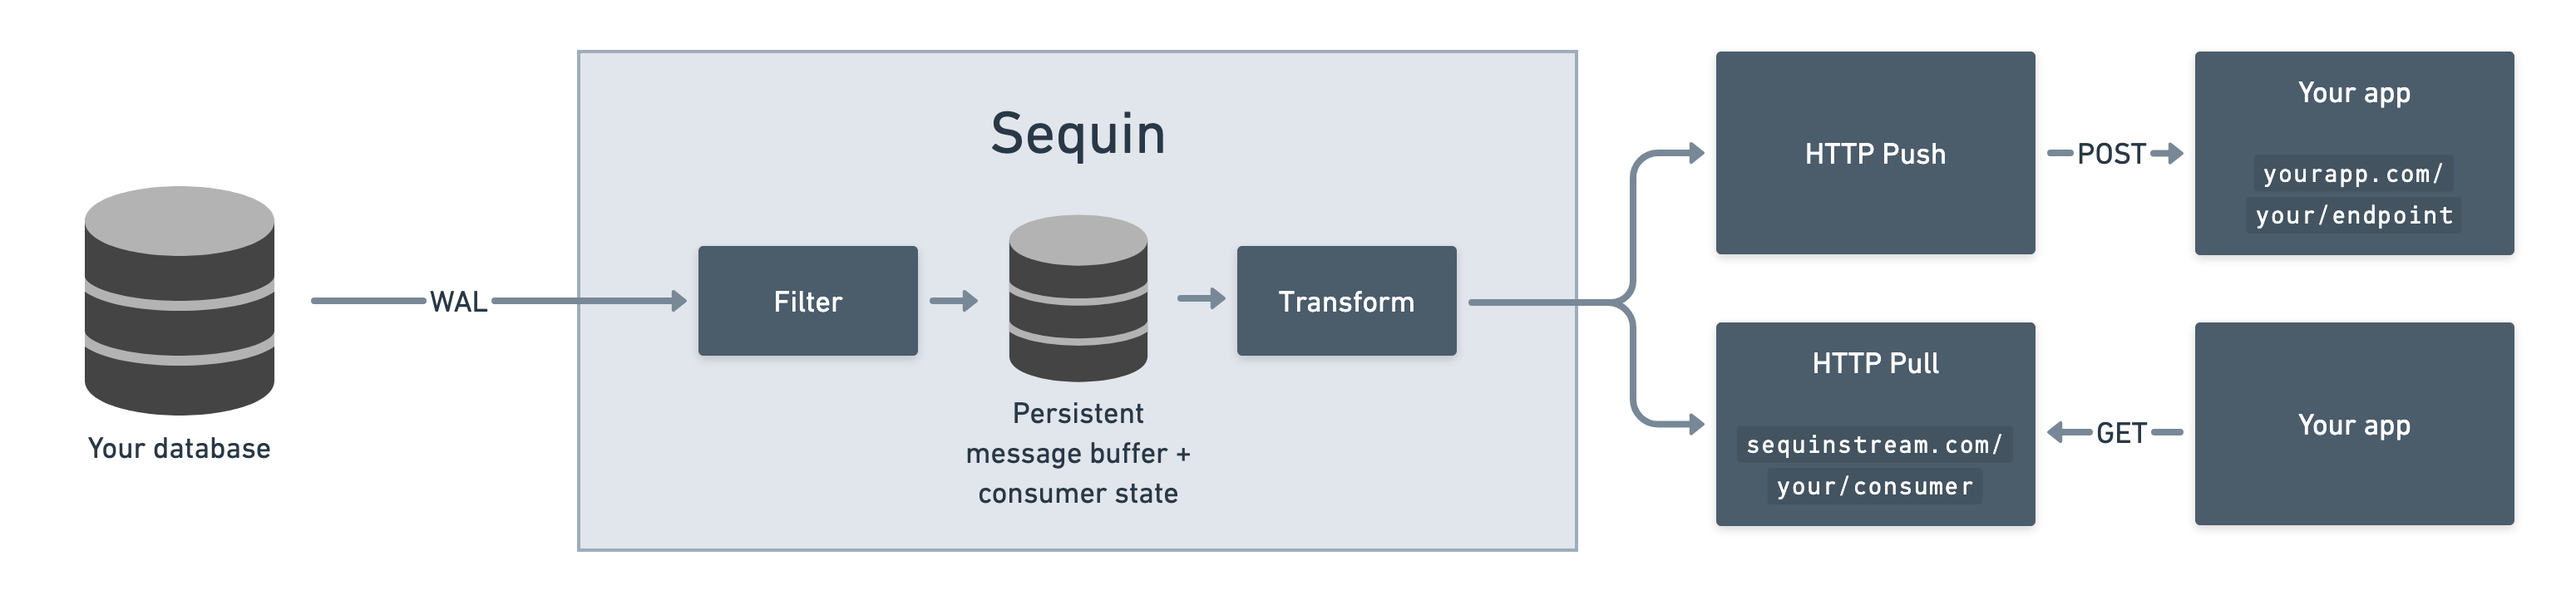
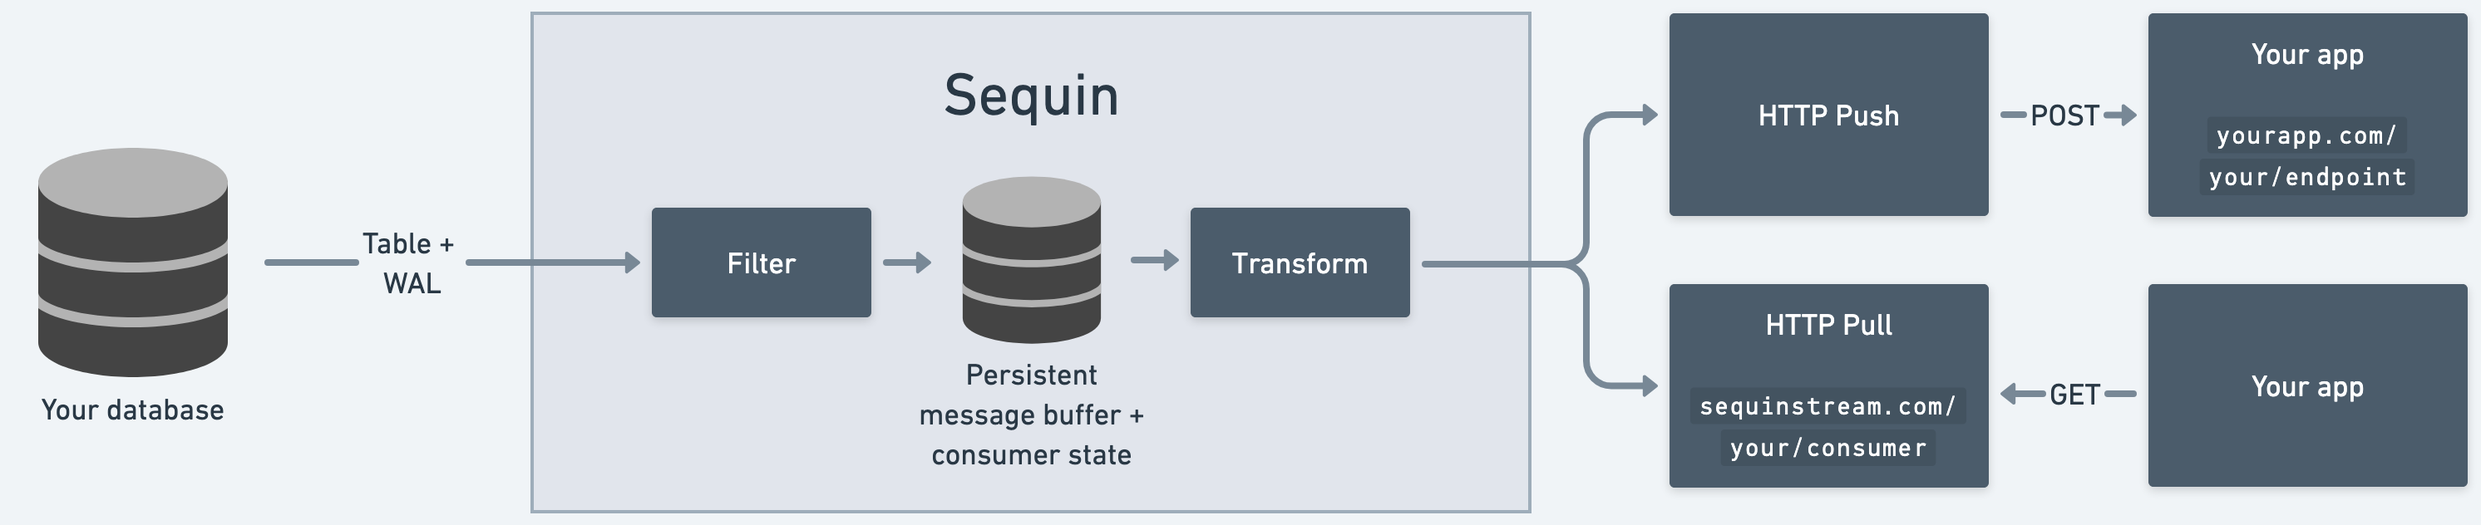
Update README

Changed region(s): [[0.0, 0.0, 0.9973, 0.9921], [0.374, 0.1203, 0.4675, 0.2706], [0.6857, 0.5111, 0.7792, 0.5411]]

diff --git a/README.md b/README.md
@@ -18,32 +18,23 @@
 
 ## What is Sequin?
 
-Sequin adds streaming capabilities to Postgres. For maximum compatibility and a rich feature-set, Sequin is not an extension. It's a Docker container you connect to your Postgres database.
+Sequin streams data out of your Postgres database. You can use it to **replicate data** in your existing tables to other apps, databases, caches, materialized views, or frontend clients. Or you can use it to build **event processing workflows**, such as triggering side effects when data in Postgres changes.
 
-Sequin adds a stateful consumer layer to Postgres. Sequin's consumers let you stream rows and changes with exactly-once processing. Sequin handles turning your Postgres tables into streams: detecting changes, delivering messages in real-time, retries, and more. It's like having SQS or Kafka fused to your Postgres database.
+Sequin itself is built on Postgres. It uses the Write Ahead Log (WAL) to detect changes and internal tables to store consumer state. Without Sequin, you'd need to cobble together tools like Debezium and Kafka.
 
-At the moment, Sequin offers two HTTP interfaces for consuming messages. You can pull changes (SQS-inspired interface), or push changes via HTTP (webhooks).
-
-Sequin is built for **change data capture** (CDC) use cases, like replicating data, feeding search indexes, creating audit logs, triggering side effects, fan-out to microservices, and more.
-
-Sequin also **eliminates the need for Kafka** in many situations. If your data already exists in Postgres, why copy data into Kafka when you can just stream it directly from your tables? Unlike Kafka, with Sequin your Postgres table is the storage layer and remains the source of truth.
-
-To operate, Sequin has two major components:
-
-1. An extraction pipeline: Sequin connects to your Postgres tables and uses a combination of reading from your table and reading from your WAL to turn your table into a stream.
-2. A delivery pipeline: Sequin delivers messages to consumers via a HTTP pull interface or webhooks. It keeps consumer state in Sequin-managed Postgres tables.
+Sequin is a standalone Docker container that you can deploy in front of your Postgres database. Or, you can use [our hosted offering](https://sequinstream.com).
 
 Sequin is open source/MIT. We can't wait to see what you build.
 
 ## Killer features
 
-- **Never miss a message:** Sequin delivers messages from your database to consumers until they are acknowledged (i.e. exactly-once processing guarantees).
+- **Never miss a record or change:** Sequin ensures all database changes are delivered and processed exactly once by consumers.
 - **SQL-based routing:** Filter and route messages to consumers using SQL `where` conditions.
 - **Replays:** Rewind consumers to any row on your table. Or republish select messages that match a SQL query.
 - **Start anywhere:** Consumers can start processing records from any point in a table.
-- **Bring your database:** Sequin is not an extension. It works with any Postgres database version 12+.
+- **Bring your database:** Sequin is not an extension. It works with any Postgres database version 12\+.
 - **No PL/pgSQL:** Define business logic in the language of your choice and in your application.
-- **Transforms** (coming soon!): Transform message payloads by writing functions in Lua, JavaScript, or Go.
+- **Transforms** \(coming soon\!\): Transform message payloads by writing functions in Lua, JavaScript, or Go.
 
 ## Cloud
 
@@ -55,9 +46,13 @@ Sequin is open source/MIT. We can't wait to see what you build.
 
 Sequin keeps your data in your Postgres database. You can use your existing database in a new way without copying the data to a new system or mastering a new technology.
 
-Sequin connects to any Postgres database via both direct table reads (i.e. `select`) and the Write Ahead Log (WAL). Consumers can start processing rows at any point in the table. Sequin turns the table's rows and changes into a stream of messages. Sequin buffers messages to ensure they are delivered and allow for replays and rewinds. You can read those messages over an HTTP interface similar to SQS, or Sequin can push changes to you via webhooks.
+Sequin connects to any Postgres database via both direct table reads (i.e. `select`) and the WAL. Consumers can start processing rows at any point in the table. Sequin turns the table's rows into a stream of messages. You can read those messages over an HTTP interface similar to SQS, or Sequin can push changes to you via webhooks.
 
-Sequin is open source. You can run Sequin in its own Docker container or as a sidecar container in your existing deployment.
+As rows are inserted or updated, Sequin will redeliver them to consumers.
+
+With [WAL Pipelines](#wal-pipelines), you can capture discrete changes to your tables, including `OLD` values for updates and hard-deletes. Sequin will write changes to an event log table in your database, so you can stream these changes with Sequin.
+
+You can run Sequin in its own Docker container or as a sidecar container in your existing deployment.
 
 Sequin comes with a web console/UI for configuration:
 
@@ -65,7 +60,7 @@ Sequin comes with a web console/UI for configuration:
 2. Select the tables, actions, and SQL filters that publish messages to your consumers.
 3. Consume messages using HTTP pull and push interfaces. (You can use our SDKs.)
 
-In production, you can configure Sequin as code using Terraform.
+You can configure Sequin as code using TOML config files (coming soon).
 
 ## Benchmarks
 
@@ -75,119 +70,64 @@ Postgres Performance is highly dependent on machine resources. But to give you a
 
 ## Use cases
 
-**Trigger side-effects:** Never miss a change in your database for processing by other systems.
-![Queue email](https://github.com/sequinstream/sequin/blob/main/docs/images/readme/use_case_1.svg?)
-
-**Fan out:** Add queue capabilities to your database to broadcast events, distribute workloads, and decouple services.
-![Fan out order](https://github.com/sequinstream/sequin/blob/main/docs/images/readme/use_case_2.svg?)
-
 **Replication:** Sync data to other systems to update search indexes, invalidate caches, and generate denormalized views.
 ![Sync](https://github.com/sequinstream/sequin/blob/main/docs/images/readme/use_case_3.svg?)
 
-## Compare Sequin
+**Trigger side-effects:** Never miss a change in your database for processing by other systems.
+![Queue email](https://github.com/sequinstream/sequin/blob/main/docs/images/readme/use_case_1.svg?)
 
-### Quick compare
+**Fan out:** Broadcast events, distribute workloads, and decouple services.
+![Fan out order](https://github.com/sequinstream/sequin/blob/main/docs/images/readme/use_case_2.svg?)
 
-| Feature               | Sequin                   | [PG triggers](#pg-triggers) | [LISTEN / NOTIFY](#listen--notify) | [Supabase Webhooks](#supabase-webhooks) | [Amazon SQS](#amazon-sqs) | [PGMQ](#pgmq)   |
-| --------------------- | ------------------------ | --------------------------- | ---------------------------------- | --------------------------------------- | ------------------------- | --------------- |
-| Trigger guarantees    | Transactional            | Transactional               | Transactional                      | Transactional                           | N/A                       | Transactional   |
-| Processing guarantees | Exactly-once             | Exactly-once                | At-most-once                       | At-least-once                           | Exactly-once              | Exactly-once    |
-| Order guarantees      | FIFO, strict by PK       | FIFO                        | ❌ No                              | ❌ No                                   | FIFO option               | ❌ No           |
-| Replay                | ✅ Yes                   | ❌ No                       | ❌ No                              | ❌ No                                   | ❌ No                     | ✅ Yes          |
-| Filtering             | ✅ Yes                   | ✅ Yes                      | ✅ Yes                             | ✅ PG triggers                          | N/A                       | ❌ No           |
-| Transformation        | ✅ LUA                   | ❌ No                       | ❌ No                              | ❌ No                                   | ❌ No                     | ❌ No           |
-| Backfills             | ✅ Yes                   | ❌ No                       | ❌ No                              | ❌ No                                   | N/A                       | N/A             |
-| Interface             | HTTP pull<br />HTTP push | plpgsql                     | Postgres client                    | HTTP push                               | HTTP pull                 | SQL functions   |
-| Observability         | Sequin console           | PG logging\*                | PG logging\*                       | Supabase dashboard                      | AWS console               | PG logging\*    |
-| Performance           | WAL, minimal overhead    | Serial ops / row^           | Minimal overhead                   | Serial ops / row^                       | N/A                       | PG table limits |
+## WAL Pipelines
 
-<sub>\* **PG logging:** You can configure logging in your database, but nothing is built in. Generally hard to see the state of any given side-effect.</sub>
+Sequin streams rows from your Postgres tables. To capture and stream discrete changes to your tables – including `OLD` values for updates and hard-deletes – you can use **WAL Pipelines**. WAL Pipelines insert WAL records into an append-only event log table in your database. You can then stream these changes with Sequin.
 
-<sub>^ **Serial ops / row:** Postgres triggers (which power Supabase Webhooks) run serially within each transaction (and block) and can add significant overhead.</sub>
-
-### Details
-
-<details>
-
-<summary>Kafka v Sequin</summary>
-
-### Kafka
+## Sequin vs Kafka
 
 Apache Kafka is a distributed event streaming platform. Kafka is designed for very high throughput and horizontal scalability.
 
-You can use Sequin to turn a Postgres table into something that behaves like a Kafka topic. You can create new consumers that process messages in order, starting at any offset in the table you specify. Because all your data lives at rest in Postgres, the data model is easy to understand and work with.
+You can think of Sequin as a more ergonomic, Postgres-based alternative. With Sequin, you can turn a Postgres table into something that behaves like a Kafka topic. You can create new consumers that process messages in order, starting at any offset in the table you specify. Because all your data lives at rest in Postgres, the data model is easy to understand and work with.
 
-Sequin's consumer pattern is simpler than Kafka's. Kafka uses partitions and offsets for concurrency, whereas Sequin uses a message queue pattern similar to SQS. This means concurrency is flexible and you can scale workers up and down without making any configuration changes.
+Sequin's consumer pattern is much simpler than Kafka's. Kafka uses partitions and offsets for concurrent consumption, whereas Sequin uses a message queue pattern similar to SQS. This means concurrency is flexible and you can scale workers up and down without making any configuration changes.
+
+Consumers can also use SQL-based filtering to consume a subset of rows from a table. This is far more dynamic than Kafka's topic model, where consumer groups need to consume all data from a topic.
 
 While Kafka may be necessary for very high throughput use cases (logs or metrics, millions of messages per second), Postgres and Sequin are able to handle a lot of use cases with a lot less complexity (even modest Postgres instances can handle tens of thousands of messages per second).
 
-</details>
+## Sequin vs Debezium + Kafka
 
-<details>
+Debezium is a change data capture (CDC) tool for databases like Postgres. It requires an external messaging system like Kafka to operate.
 
-<summary>PG Triggers v Sequin</summary>
+Like Sequin, you can use Debezium + Kafka to replicate data or build event processing workflows.
 
-### PG Triggers
+Debezium is a complex system that requires a lot of setup and configuration.
+
+Sequin is simpler to setup and operate, yet is quickly becoming as comprehensive as Debezium. Sequin comes with a much more comprehensive UI for configuration and monitoring. And Sequin doesn't require another messaging system like Kafka to learn and operate. With [WAL Pipelines](#wal-pipelines) you can capture the same changes that Debezium does.
+
+## Sequin vs PG Triggers
 
 [PG Triggers](https://www.postgresql.org/docs/current/sql-createtrigger.html) provide exactly-once processing guarantees within the context of your database. For instance, you can ensure that when a record is inserted in one table, it is appended to another.
 
 Sequin extends this guarantee outside of your database with a simple HTTP interface. Notably, Sequin is much more efficient at processing changes - as the trigger is captured via the WAL while Postgres triggers execute per row, inside transactions.
 
-</details>
-
-<details>
-
-<summary>LISTEN / NOTIFY v Sequin</summary>
-
-### LISTEN / NOTIFY
+## Sequin vs LISTEN / NOTIFY
 
 [`NOTIFY`](https://www.postgresql.org/docs/current/sql-notify.html) delivers a message to any channel listening for changes. It's a simple pub/sub model with at-most once delivery guarantees. If a change happens and no channel is available to hear it - it's gone forever.
 
 Sequin adds a HTTP interface and persistent, durable messaging to provide exactly-once processing guarantees to the NOTIFY implementation. Paired with filtering, transforms, and observability - Sequin is easier to use and monitor.
 
-</details>
-
-<details>
-
-<summary>Supabase Webhooks v Sequin</summary>
-
-### Supabase Webhooks
-
-Supabase Webhooks use pg_net to allow you to trigger a HTTP POST or GET from a Postgres Trigger. If a webhook fails, the response is logged (for a period of time).
-
-Sequin adds retries and message persistence to provide exactly-once processing guarantees. Paired with more queue configuration options, Sequin acts as a sort of outbox stream for Supabase.
-
-</details>
-
-<details>
-
-<summary>Amazon SQS v Sequin</summary>
-
-### Amazon SQS
+## Amazon SQS
 
 Amazon Simple Queue Service (SQS) is a message queuing service. It offers exactly-once processing over an HTTP interface.
 
-Sequin's HTTP pull interface is a lot like SQS's HTTP pull interface. Except, Sequin isn't really a queue; it's better thought of as a stream. Because Sequin is streaming your Postgres tables, messages aren't deleted after they're processed.
+Sequin's HTTP pull interface is a lot like SQS's HTTP pull interface. Except, Sequin isn't really a queue; it's better thought of as a stream. Because Sequin is streaming your Postgres tables, messages aren't deleted after they're processed. This means consumers can rewind and replay records, or start anywhere in the table.
 
 So, Sequin is kind of like combining your Postgres table with SQS, like you might do with a system like Debezium.
 
-</details>
-
-<details>
-
-<summary>PGMQ v Sequin</summary>
-
-### PGMQ
-
-PGMQ is a Postgres extension that provides a durable message queue with a SQL interface that mimics SQS methods. It offers exactly-once processing like SQS, but runs entirely in Postgres.
-
-Unlike PGMQ, Sequin is a stream not a queue. PGMQ owns a table you publish messages to, and when you process the messages they are deleted. By contrast, Sequin turns your existing tables into a stream. They're useful for different use cases.
-
-</details>
-
 ## Documentation
 
-For full documentation, visit [sequinstream.com/docs](http://sequinstream.com/docs).
+For Sequin's complete documentation, visit [sequinstream.com/docs](http://sequinstream.com/docs).
 
 ## Quick start
 
